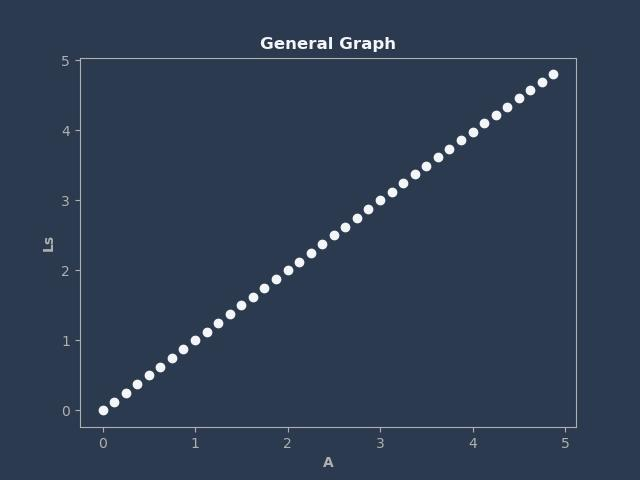
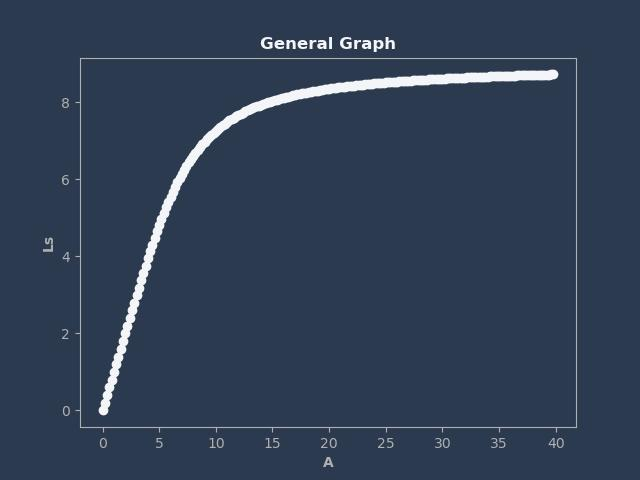
risolto problema grafico

diff --git a/src/graphicPage.py b/src/graphicPage.py
@@ -156,6 +156,7 @@ class GraphicPage(Screen):
     count_switch = 0
 
     def inputStart(self):
+        GraphicPage.count_switch = 0
         self.ids.graph.remove_widget(self.image_source)
 
         formulas = Formulas(0,0,0,0)
@@ -164,7 +165,7 @@ class GraphicPage(Screen):
         formulas.Y = int(self.ids.y.text)
         formulas.state = int(self.ids.state.text)
 
-        self.ids.Pk.text = str(format(Formulas.getProbabilityAtState(formulas, formulas.state), ".2e"))
+        self.ids.Pk.text = str(round(Formulas.getProbabilityAtState(formulas, formulas.state), 4))
         self.ids.Py.text = str(format(Formulas.getProbabilityAtStateY(formulas), ".2e"))
         self.ids.Ls.text = str(round(Formulas.getServerLength(formulas), 2))
         self.ids.Ws.text = str(round(Formulas.getServerWait(formulas), 2))

diff --git a/src/libs/graphs.py b/src/libs/graphs.py
@@ -37,7 +37,7 @@ class Graphs():
             ax.spines[i].set_color(Styles.light_2_color)
 
         # display points
-        for i in range(0, int(self.formulas.getServiceRate())):
+        for i in range(0, self.xLength * int(self.formulas.getServiceRate())):
             self.formulas.setArrivalRate(i)
             # print("A:", self.formulas.getTrafficIntensity(), "=> Ls:", self.formulas.getServerLength())
             
